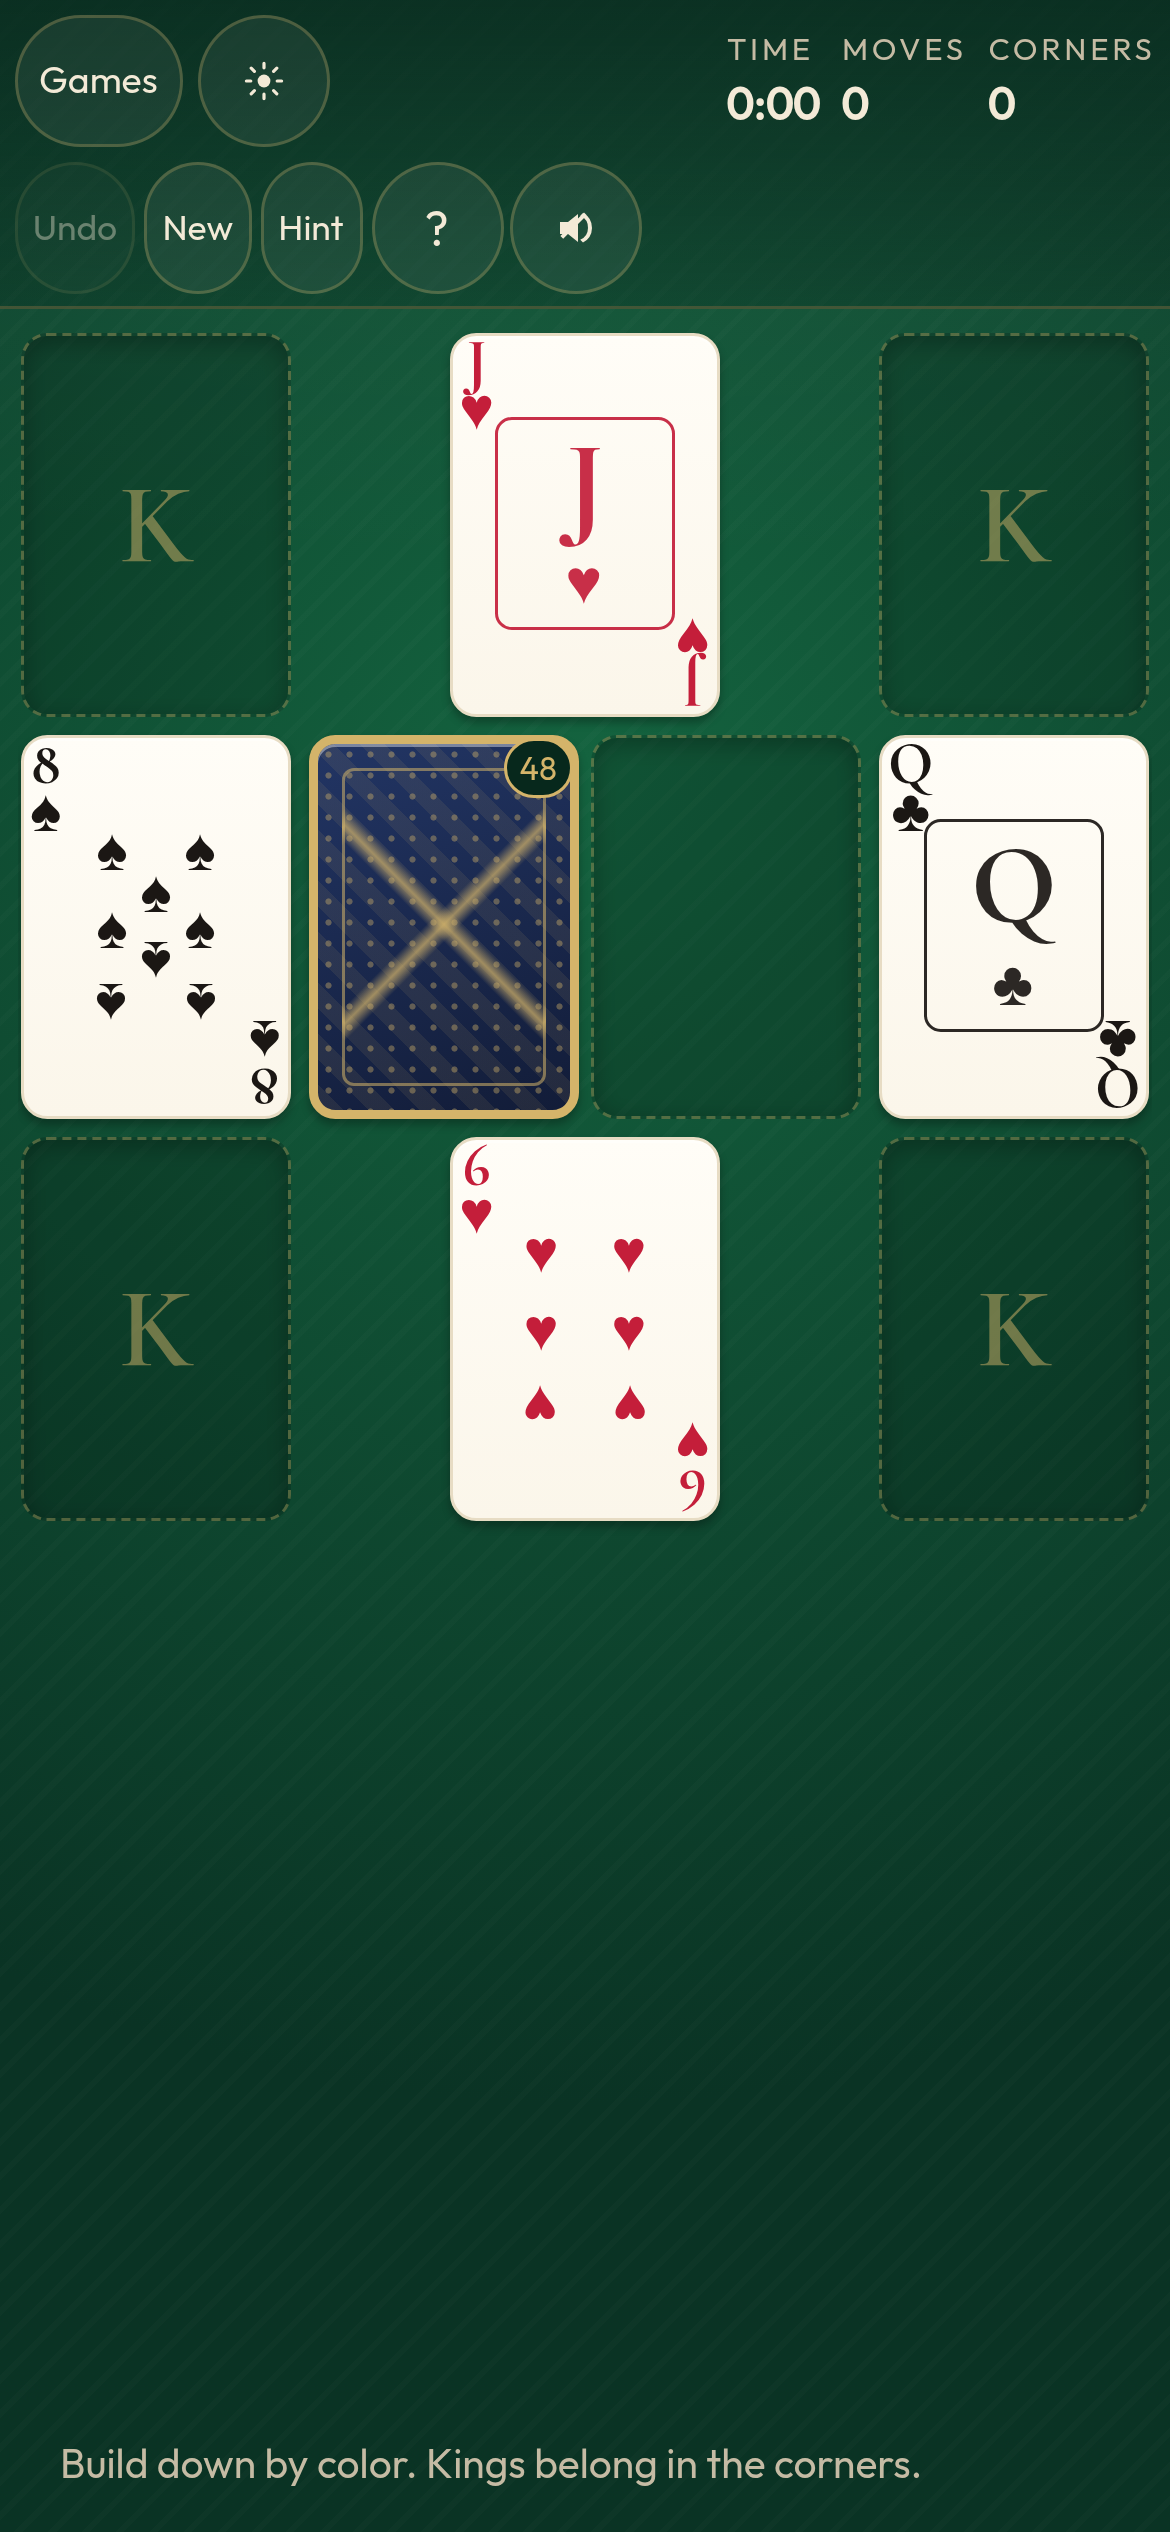
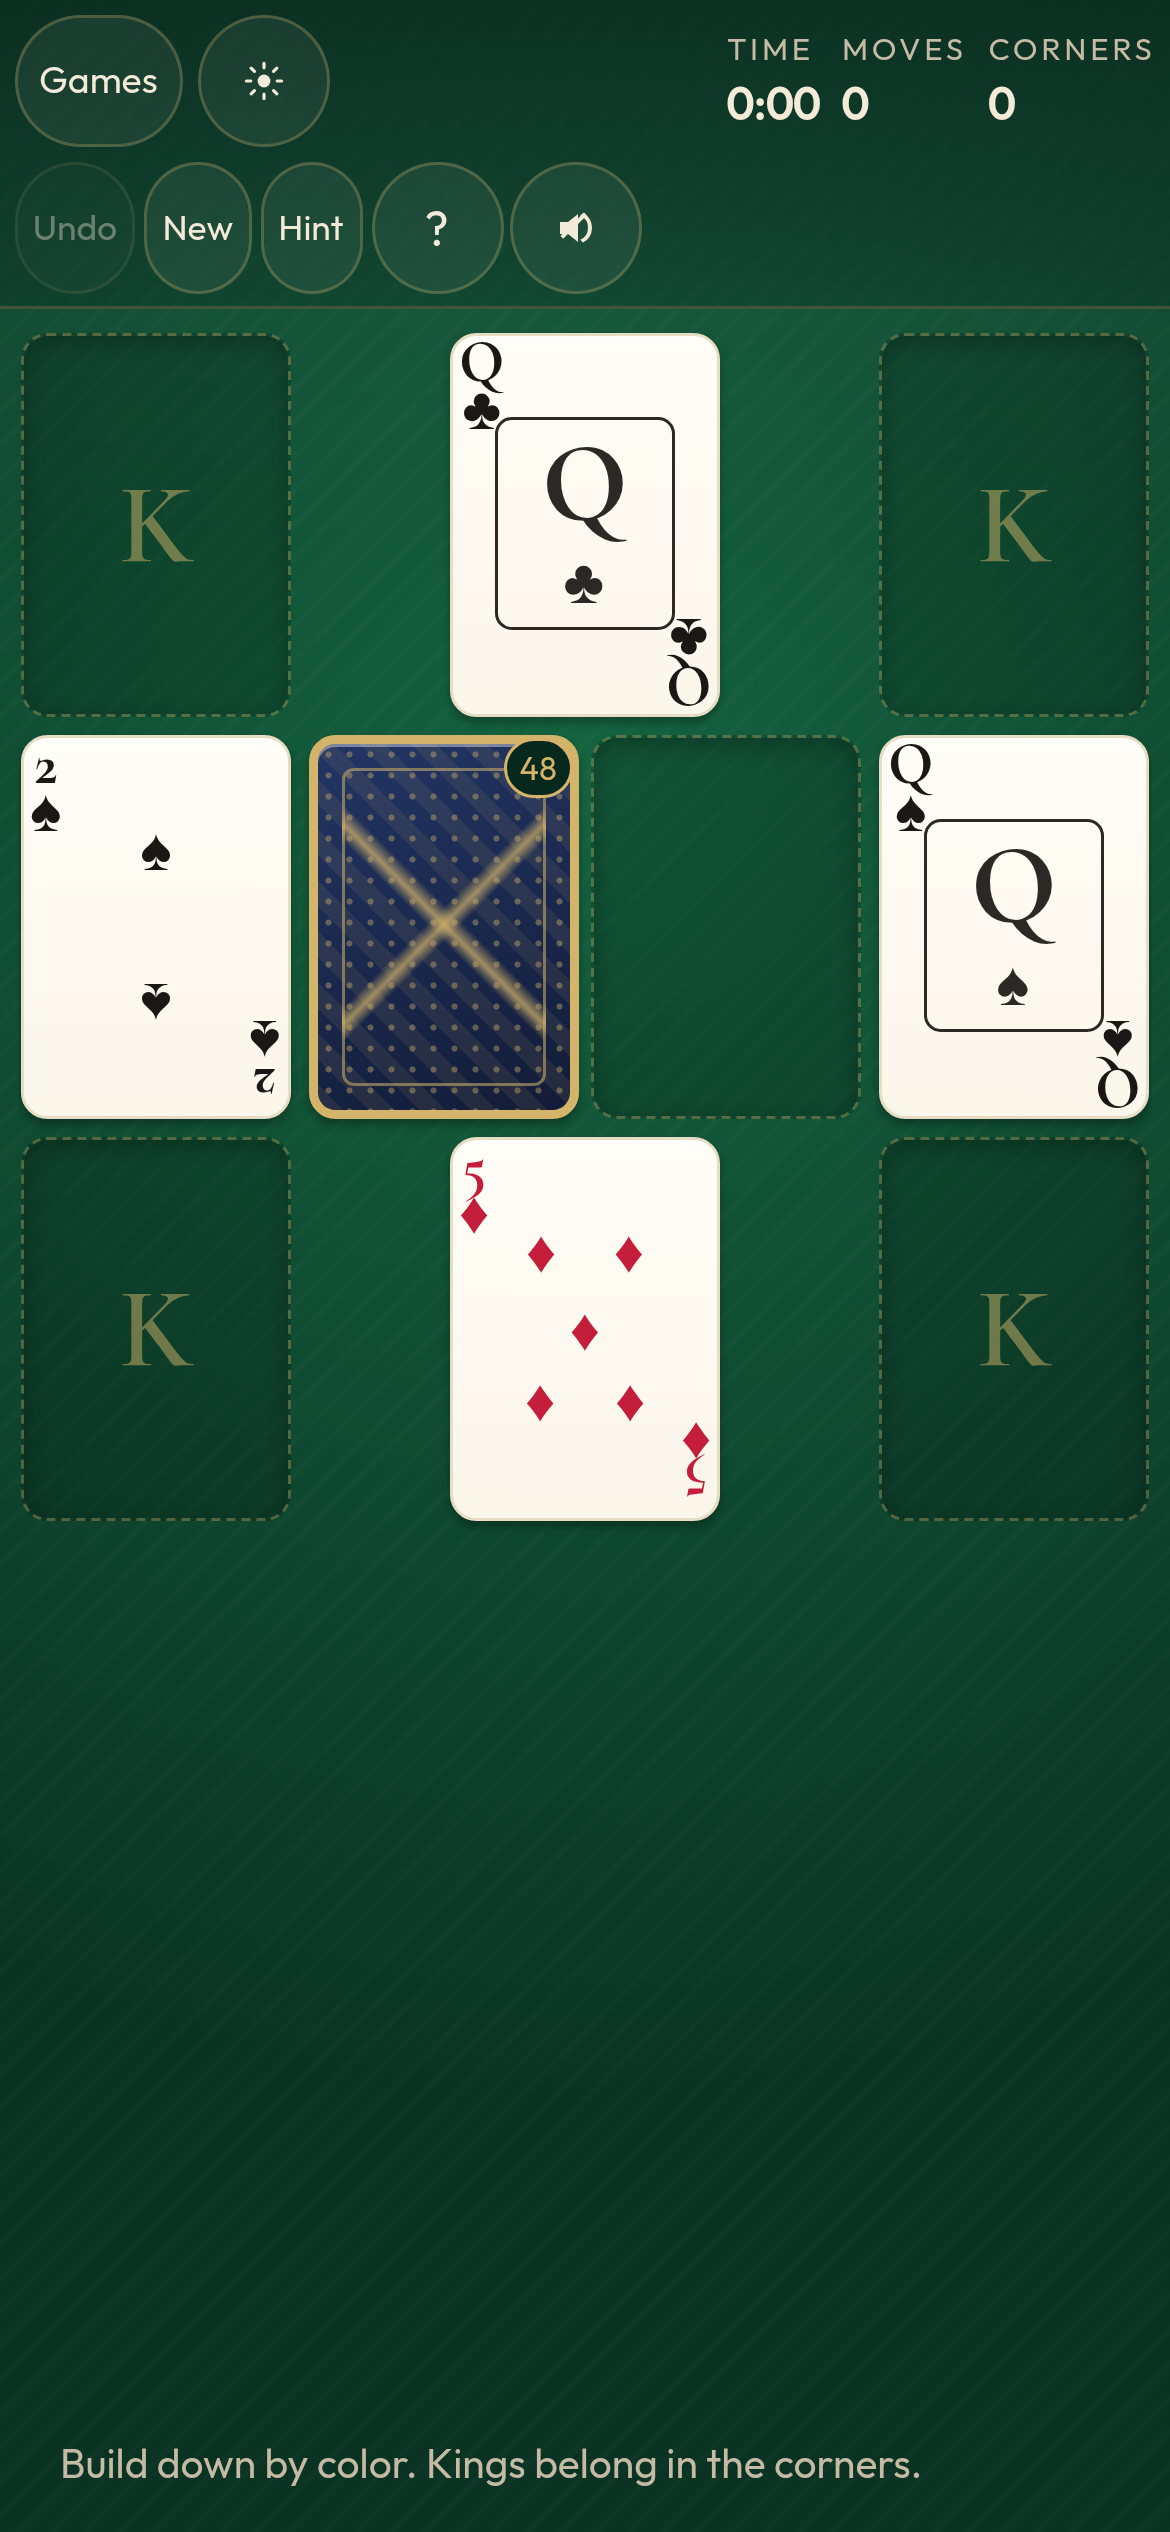
FreeCell: confirm before Help > Deal wipes a game in progress
- The Deal form in Help uses the same 'Start a new deal?' confirm as New
- Keep playing leaves the game untouched; with 0 moves or after a win it deals at once
- Browser test for the QA path (2 moves, Help > Deal, cancel, then confirm)

diff --git a/src/ui-freecell.js b/src/ui-freecell.js
@@ -367,9 +367,10 @@ export function mount() {
     return session.state.moves > 0 && !session.state.won && !isWon(session.state);
   }
 
-  function confirmNewDeal() {
+  // dealNumber is set when the player asked for a specific deal (Help → Deal form); otherwise a random deal.
+  function confirmNewDeal(dealNumber) {
     if (!gameInProgress()) {
-      startDeal(randomDeal());
+      startDeal(dealNumber ?? randomDeal());
       return;
     }
     session.modal = "confirm";
@@ -379,7 +380,7 @@ export function mount() {
       <p>The current deal will be abandoned.</p>
       <div class="modal-actions">
         <button type="button" class="btn" data-act="close" data-testid="confirm-cancel">Keep playing</button>
-        <button type="button" class="btn primary" data-act="new" data-testid="confirm-ok">New deal</button>
+        <button type="button" class="btn primary" data-act="new" data-testid="confirm-ok"${dealNumber ? ` data-deal="${dealNumber}"` : ""}>New deal</button>
       </div>
     </div>`;
   }
@@ -773,7 +774,7 @@ export function mount() {
     const btn = event.target.closest("[data-act]");
     if (!btn) return;
     if (btn.dataset.act === "close") hideOverlay();
-    else if (btn.dataset.act === "new") startDeal(randomDeal());
+    else if (btn.dataset.act === "new") startDeal(Number(btn.dataset.deal) || randomDeal());
   });
   listen(root.overlay, "submit", (event) => {
     if (!event.target.closest("[data-deal-form]")) return;
@@ -785,7 +786,7 @@ export function mount() {
       setStatus("Enter a deal from 1 to 32000.");
       return;
     }
-    startDeal(n);
+    confirmNewDeal(n);
   });
   listen(window, "keydown", (event) => {
     if (event.target.matches("input, textarea")) {
